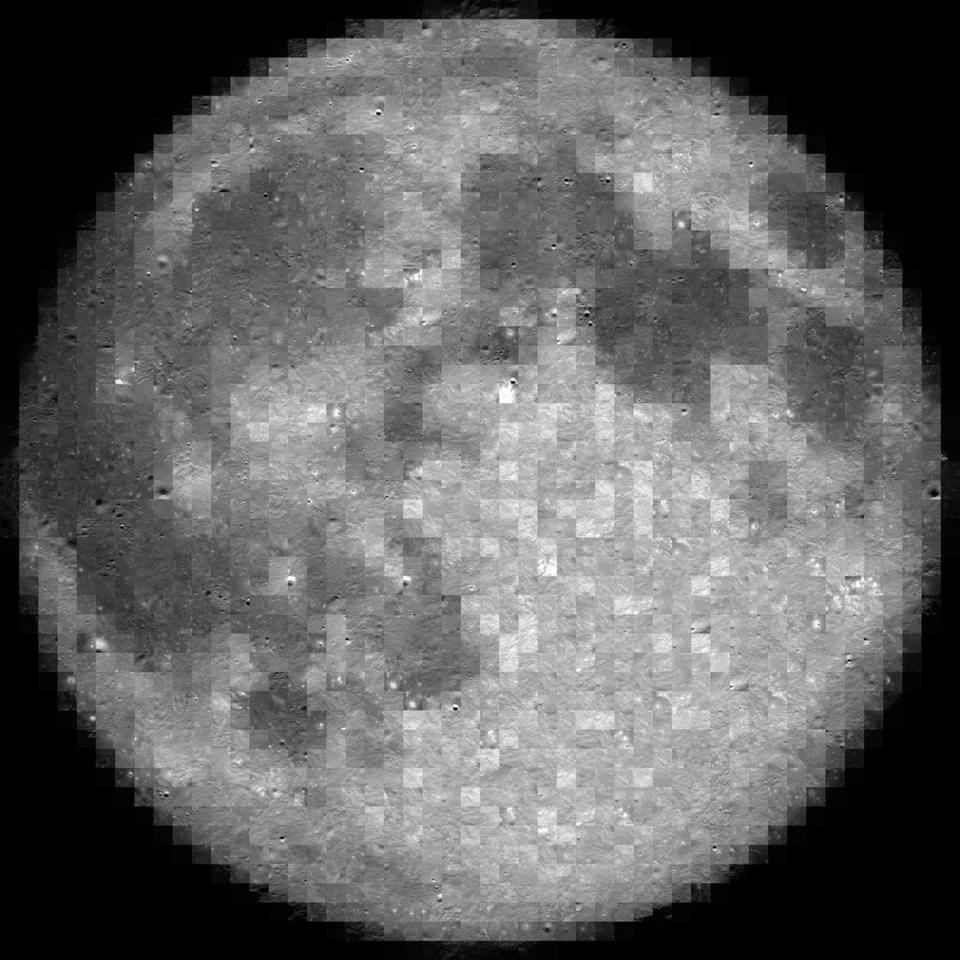
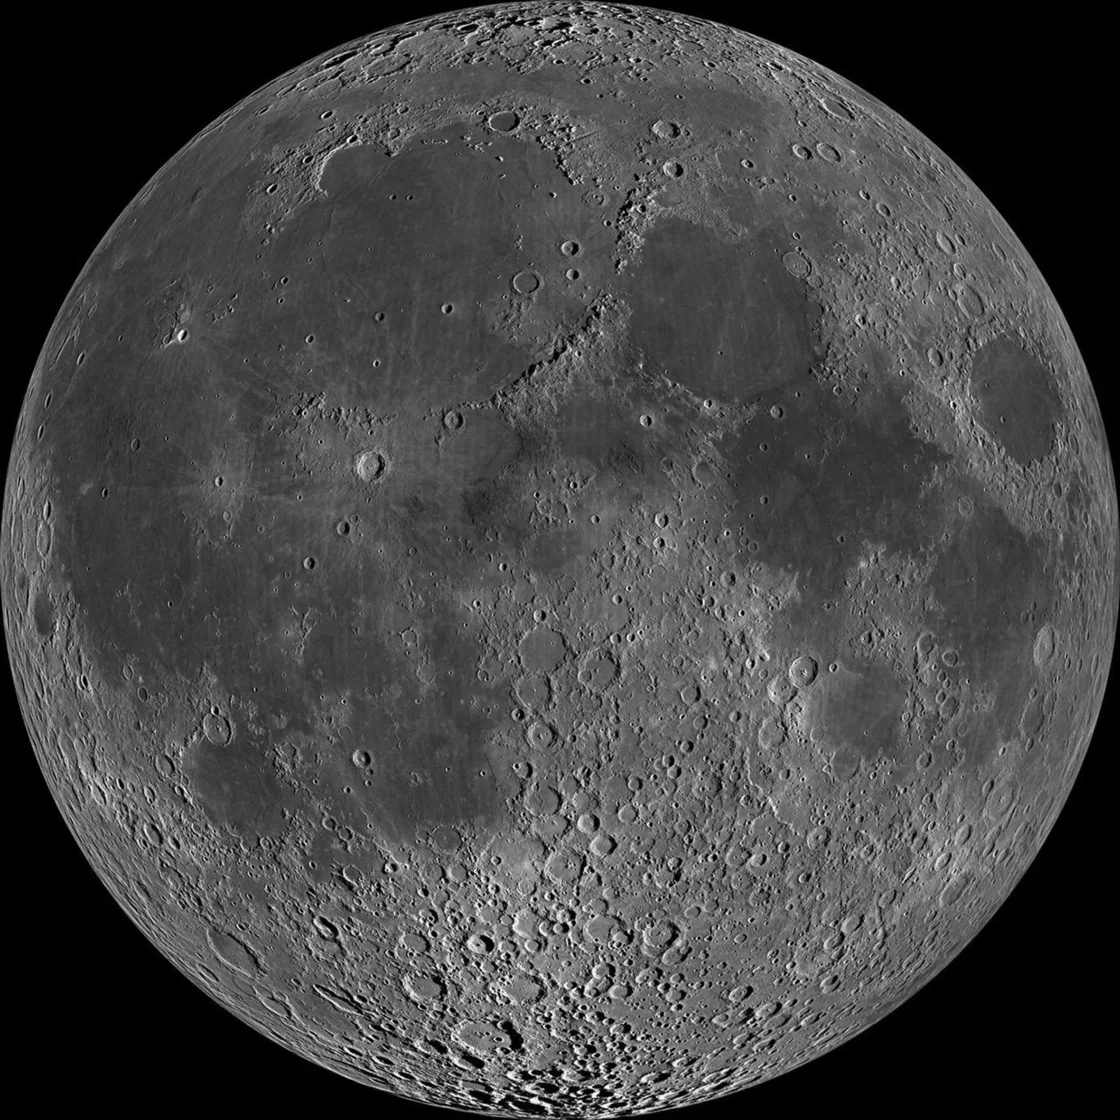
B: sharpen Moon imagery with the NASA LRO mosaic
Update the in-game and submission credits. Assisted by OpenAI Codex.

diff --git a/docs/SUBMISSION.md b/docs/SUBMISSION.md
@@ -107,7 +107,7 @@ After players choose a route and before they see Hindsight, ask **Why would a te
 - Dawn ion propulsion — https://science.nasa.gov/mission/dawn/technology/ion-propulsion/
 - Multi-Mission Radioisotope Thermoelectric Generator fact sheet — https://science.nasa.gov/wp-content/uploads/2024/02/mmrtg-factsheet-updated-5-18-20-1.pdf
 - Small Spacecraft Technology State of the Art — Avionics — https://www.nasa.gov/smallsat-institute/sst-soa/small-spacecraft-avionics/
-- Moon Mosaic — Lunar Reconnaissance Orbiter imagery — https://svs.gsfc.nasa.gov/5001/
+- Nearside Spectacular (PIA14011) — Lunar Reconnaissance Orbiter imagery — https://science.nasa.gov/photojournal/nearside-spectacular/
 - Valles Marineris Hemisphere (PIA00003) — https://science.nasa.gov/photojournal/valles-marineris-hemisphere/
 - Cassini Jupiter Portrait (PIA04866) — https://science.nasa.gov/photojournal/cassini-jupiter-portrait/
 - Juno telecommunications design and antenna specifications — https://descanso.jpl.nasa.gov/DPSummary/Descanso16_Juno_RevA.pdf
